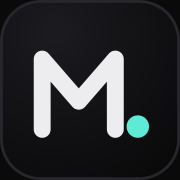
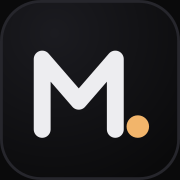
Refresh the hero copy, rename Projects and switch to an amber accent
The tagline and intro made it look like I only do JavaScript. They now cover the wider stack, the AI agent work and the PhD. The typing effect is faster, Projects is now Side projects with a short intro, and the teal accent and the "Hi, my name is" opener are gone because they read like a common portfolio template.

Changed region(s): [[0.6944, 0.6389, 0.8333, 0.7778]]

diff --git a/src/styles/global.css b/src/styles/global.css
@@ -9,8 +9,8 @@
   --color-border: #26262c;
   --color-fg: #ededf0;
   --color-muted: #a1a1ab;
-  --color-accent: #5eead4;
-  --color-accent-strong: #2dd4bf;
+  --color-accent: #f2b56b;
+  --color-accent-strong: #e99d45;
 
   --font-sans: "Inter", ui-sans-serif, system-ui, -apple-system, "Segoe UI",
     Roboto, Helvetica, Arial, sans-serif;
@@ -233,7 +233,7 @@ section[data-section] {
 
 ::selection {
   background: var(--color-accent);
-  color: #04231e;
+  color: #2b1803;
 }
 
 /* Keep this in @layer base so Tailwind text-color utilities (e.g. text-bg,

diff --git a/src/config.ts b/src/config.ts
@@ -4,7 +4,7 @@ export const site = {
   role: "Senior Software Developer · Full Stack",
   tagline: "I build production web & mobile apps end to end.",
   description:
-    "Marcin Michalik — Senior full-stack developer in Oslo. React, TypeScript, Node.js. Projects, writing and contact.",
+    "Marcin Michalik — Senior full-stack developer in Oslo. Web, mobile and AI-assisted development. Experience, side projects and contact.",
   url: "https://michalik.no",
   location: "Oslo, Norway",
 };

diff --git a/src/components/TypingTagline.tsx b/src/components/TypingTagline.tsx
@@ -16,9 +16,9 @@ export default function TypingTagline({ phrases }: Props) {
     const done = text === current;
     const cleared = text === "";
 
-    let delay = deleting ? 40 : 70;
+    let delay = deleting ? 20 : 40;
     if (done && !deleting) delay = 1600;
-    if (cleared && deleting) delay = 300;
+    if (cleared && deleting) delay = 200;
 
     const timer = setTimeout(() => {
       if (!deleting && done) {
